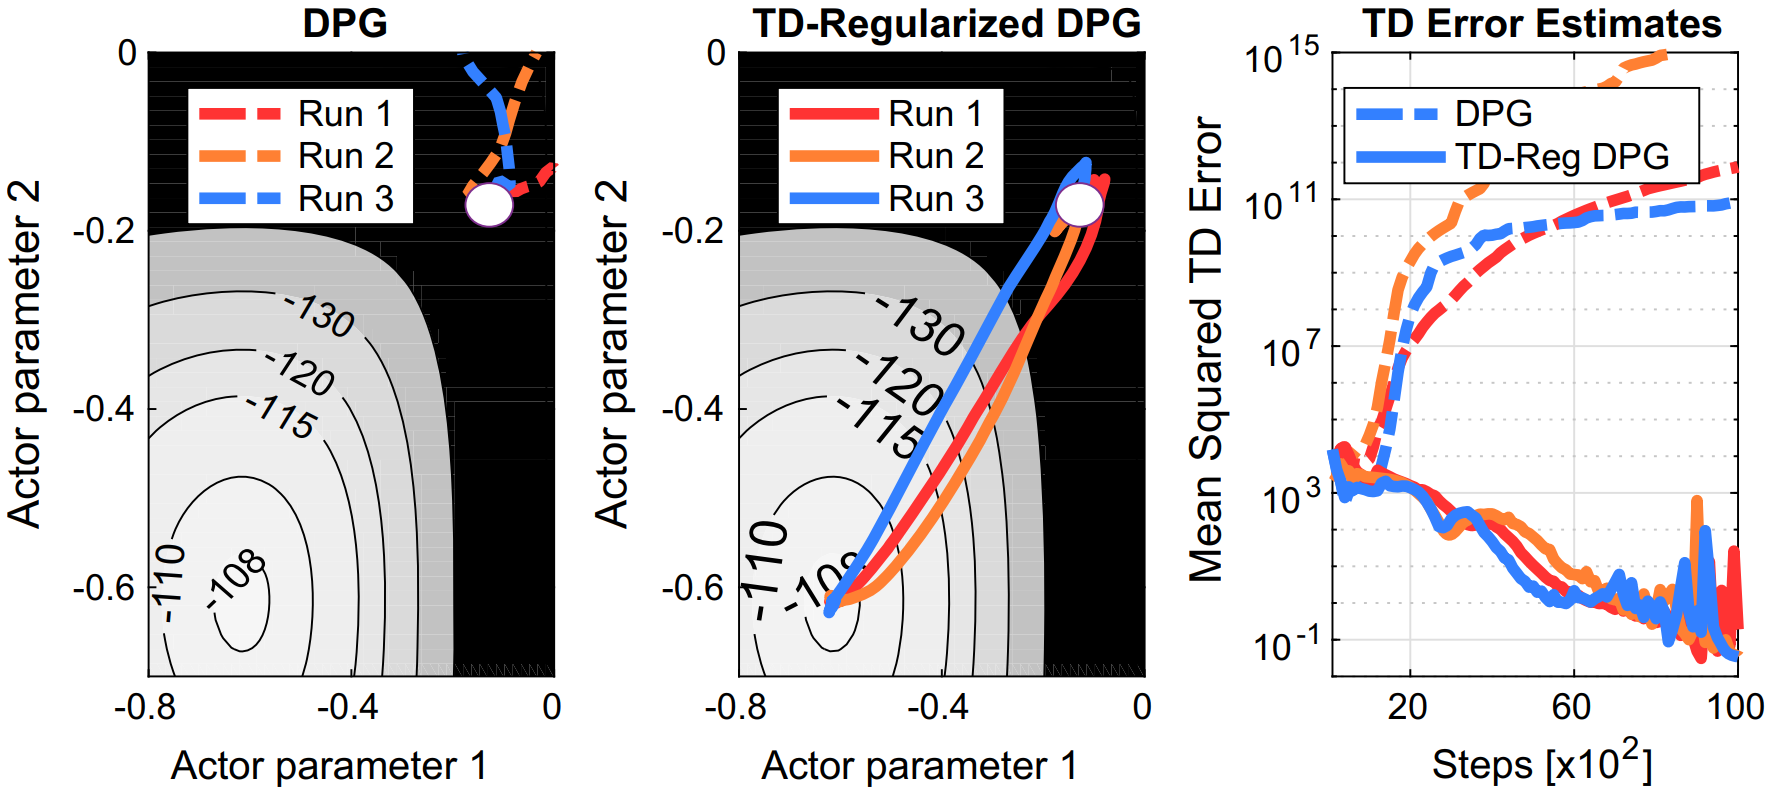
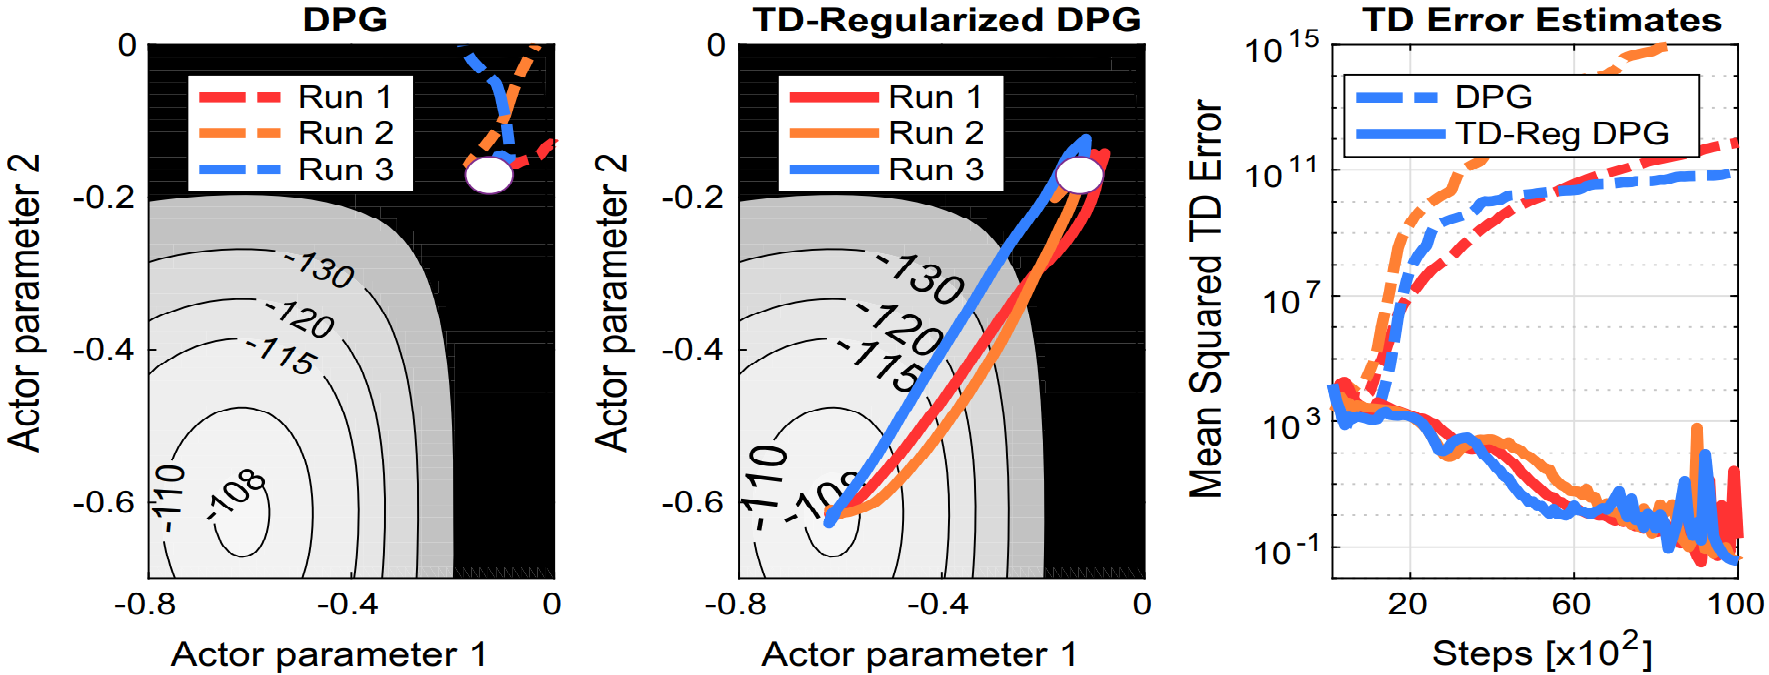
pics

diff --git a/assets/research.html b/assets/research.html
@@ -150,6 +150,8 @@ html {
   <tr><td colspan="2">
 
   <p><b><font size=+1> Exploration for RL </font></b></p>
+  <img src="teaser_nips.jpg" width="40%" style="border-radius:0px; display: inline; float: left; margin: 0 11 0 0 " >
+  <img src="exploration_rl.jpg" width="40%" style="border-radius:0px; display: inline; float: left; margin: 0 11 0 0" >
 
   <p><b>References </b></font></p>
 
@@ -207,7 +209,21 @@ html {
   <hr>
 
   <p><b><font size=+1> Improving Actor-Critic Stability </font></b></p>
-  <img src="tdreg.png" width="75%" style="border-radius:0px" >
+  <p>
+  <img src="tdreg.png" width="75%" style="border-radius:0px; display: inline; float: left; margin: 0 11 0 0" >
+  Actor-critic methods can achieve incredible performance but they are also prone to instability.
+  This is partly due to the interaction between the
+  actor and critic during learning: an inaccurate step taken by one of them might adversely
+  affect the other and destabilize the learning.
+
+  To avoid such issues, we propose to regularize
+  the learning objective of the actor by penalizing the temporal difference (TD) error of the
+  critic. This improves stability by avoiding large steps in the actor update whenever the critic
+  is highly inaccurate. The resulting method, which we call the TD-regularized actor-critic
+  method, is a simple plug-and-play approach to improve stability and overall performance of
+  actor-critic methods.
+  </p>
+
 
   <p><b>References </b></font></p>
 
